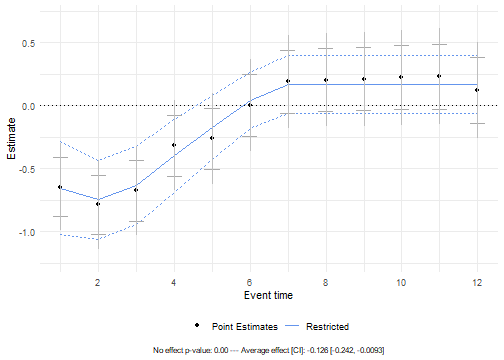
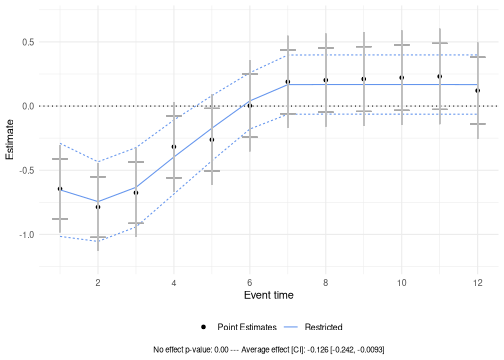
#9 recompile vignette and readme

diff --git a/README.md b/README.md
@@ -39,11 +39,12 @@ and
 
 ``` r
 library(plausibounds)
-library(ggplot2)
 
 # Load example data
 data(estimates_bighump)
 data(var_bighump)
+
+set.seed(916)
 
 # Compute restricted bounds
 pb <- plausible_bounds(
@@ -59,18 +60,18 @@ summary(pb)
 #> -----------------------------------
 #> 
 #>  horizon         coef   surrogate restr_lower restr_upper
-#>        1 -0.644857526 -0.65289039 -1.01866591 -0.28711487
-#>        2 -0.787000641 -0.74451476 -1.05739145 -0.43163808
-#>        3 -0.675417155 -0.63299852 -0.94473053 -0.32126650
-#>        4 -0.317197460 -0.39668676 -0.68754974 -0.10582377
-#>        5 -0.262353065 -0.17237281 -0.42806525  0.08331963
-#>        6  0.002879266  0.04037154 -0.18097423  0.26171731
-#>        7  0.189086269  0.16708990 -0.06548864  0.39966844
-#>        8  0.202281931  0.16777565 -0.06504176  0.40059306
-#>        9  0.210778688  0.16762896 -0.06514118  0.40039911
-#>       10  0.221185124  0.16767121 -0.06512633  0.40046875
-#>       11  0.230834836  0.16766272 -0.06515858  0.40048402
-#>       12  0.120426905  0.16738237 -0.06545694  0.40022168
+#>        1 -0.644857526 -0.65289039 -1.01968259 -0.28609819
+#>        2 -0.787000641 -0.74451476 -1.05826109 -0.43076844
+#>        3 -0.675417155 -0.63299852 -0.94559699 -0.32040004
+#>        4 -0.317197460 -0.39668676 -0.68835820 -0.10501531
+#>        5 -0.262353065 -0.17237281 -0.42877595  0.08403033
+#>        6  0.002879266  0.04037154 -0.18158946  0.26233254
+#>        7  0.189086269  0.16708990 -0.06613510  0.40031489
+#>        8  0.202281931  0.16777565 -0.06568888  0.40124018
+#>        9  0.210778688  0.16762896 -0.06578817  0.40104609
+#>       10  0.221185124  0.16767121 -0.06577340  0.40111581
+#>       11  0.230834836  0.16766272 -0.06580571  0.40113115
+#>       12  0.120426905  0.16738237 -0.06610411  0.40086886
 
 # Visualize bounds
 create_plot(pb)
